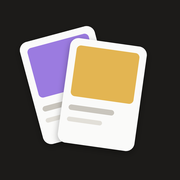
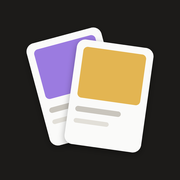
Icono: cartas centradas
Claude-Session: https://claude.ai/code/session_01GWHz75ujxqcLvRK32qqGSA

diff --git a/index.html b/index.html
@@ -7,14 +7,14 @@
 <meta name="apple-mobile-web-app-capable" content="yes">
 <meta name="apple-mobile-web-app-status-bar-style" content="default">
 <meta name="apple-mobile-web-app-title" content="Pick up">
-<link rel="manifest" href="manifest.json?v=7">
-<link rel="apple-touch-icon" href="icon-180.png?v=7">
-<link rel="icon" href="icon-192.png?v=7">
+<link rel="manifest" href="manifest.json?v=8">
+<link rel="apple-touch-icon" href="icon-180.png?v=8">
+<link rel="icon" href="icon-192.png?v=8">
 <title>Pick up</title>
 <link rel="preconnect" href="https://fonts.googleapis.com">
 <link rel="preconnect" href="https://fonts.gstatic.com" crossorigin>
 <link rel="stylesheet" href="https://fonts.googleapis.com/css2?family=Cinzel:wght@500;600&family=Cormorant+Garamond:ital,wght@0,500;0,600;1,500;1,600&family=Montserrat:wght@400;500;600&family=Playfair+Display:ital,wght@0,500;0,600;1,500;1,600&display=swap">
-<link rel="stylesheet" href="style.css?v=7">
+<link rel="stylesheet" href="style.css?v=8">
 </head>
 <body>
 <div class="bg-layer" aria-hidden="true"></div>
@@ -281,7 +281,7 @@
 
 <div class="toast" id="toast" role="status"></div>
 
-<script src="cards.js?v=7"></script>
-<script src="app.js?v=7"></script>
+<script src="cards.js?v=8"></script>
+<script src="app.js?v=8"></script>
 </body>
 </html>

diff --git a/sw.js b/sw.js
@@ -1,5 +1,5 @@
-const CACHE = 'pickup-v7';
-const ASSETS = ['./', 'index.html', 'style.css?v=7', 'app.js?v=7', 'cards.js?v=7', 'manifest.json', 'icon-192.png', 'icon-512.png', 'icon-180.png'];
+const CACHE = 'pickup-v8';
+const ASSETS = ['./', 'index.html', 'style.css?v=8', 'app.js?v=8', 'cards.js?v=8', 'manifest.json', 'icon-192.png', 'icon-512.png', 'icon-180.png'];
 self.addEventListener('install', e => {
   e.waitUntil(caches.open(CACHE).then(c => c.addAll(ASSETS)).then(() => self.skipWaiting()));
 });

diff --git a/app.js b/app.js
@@ -1001,7 +1001,7 @@ function toast(msg) {
   clearTimeout(toastT); toastT = setTimeout(() => t.classList.remove('show'), 2400);
 }
 
-const APP_VERSION = '7 · icono nuevo';
+const APP_VERSION = '8 · icono centrado';
 if ('serviceWorker' in navigator) {
   navigator.serviceWorker.register('sw.js', { updateViaCache: 'none' }).then(reg => reg.update()).catch(() => {});
   // Cuando llega una versión nueva, recarga una vez para mostrarla
